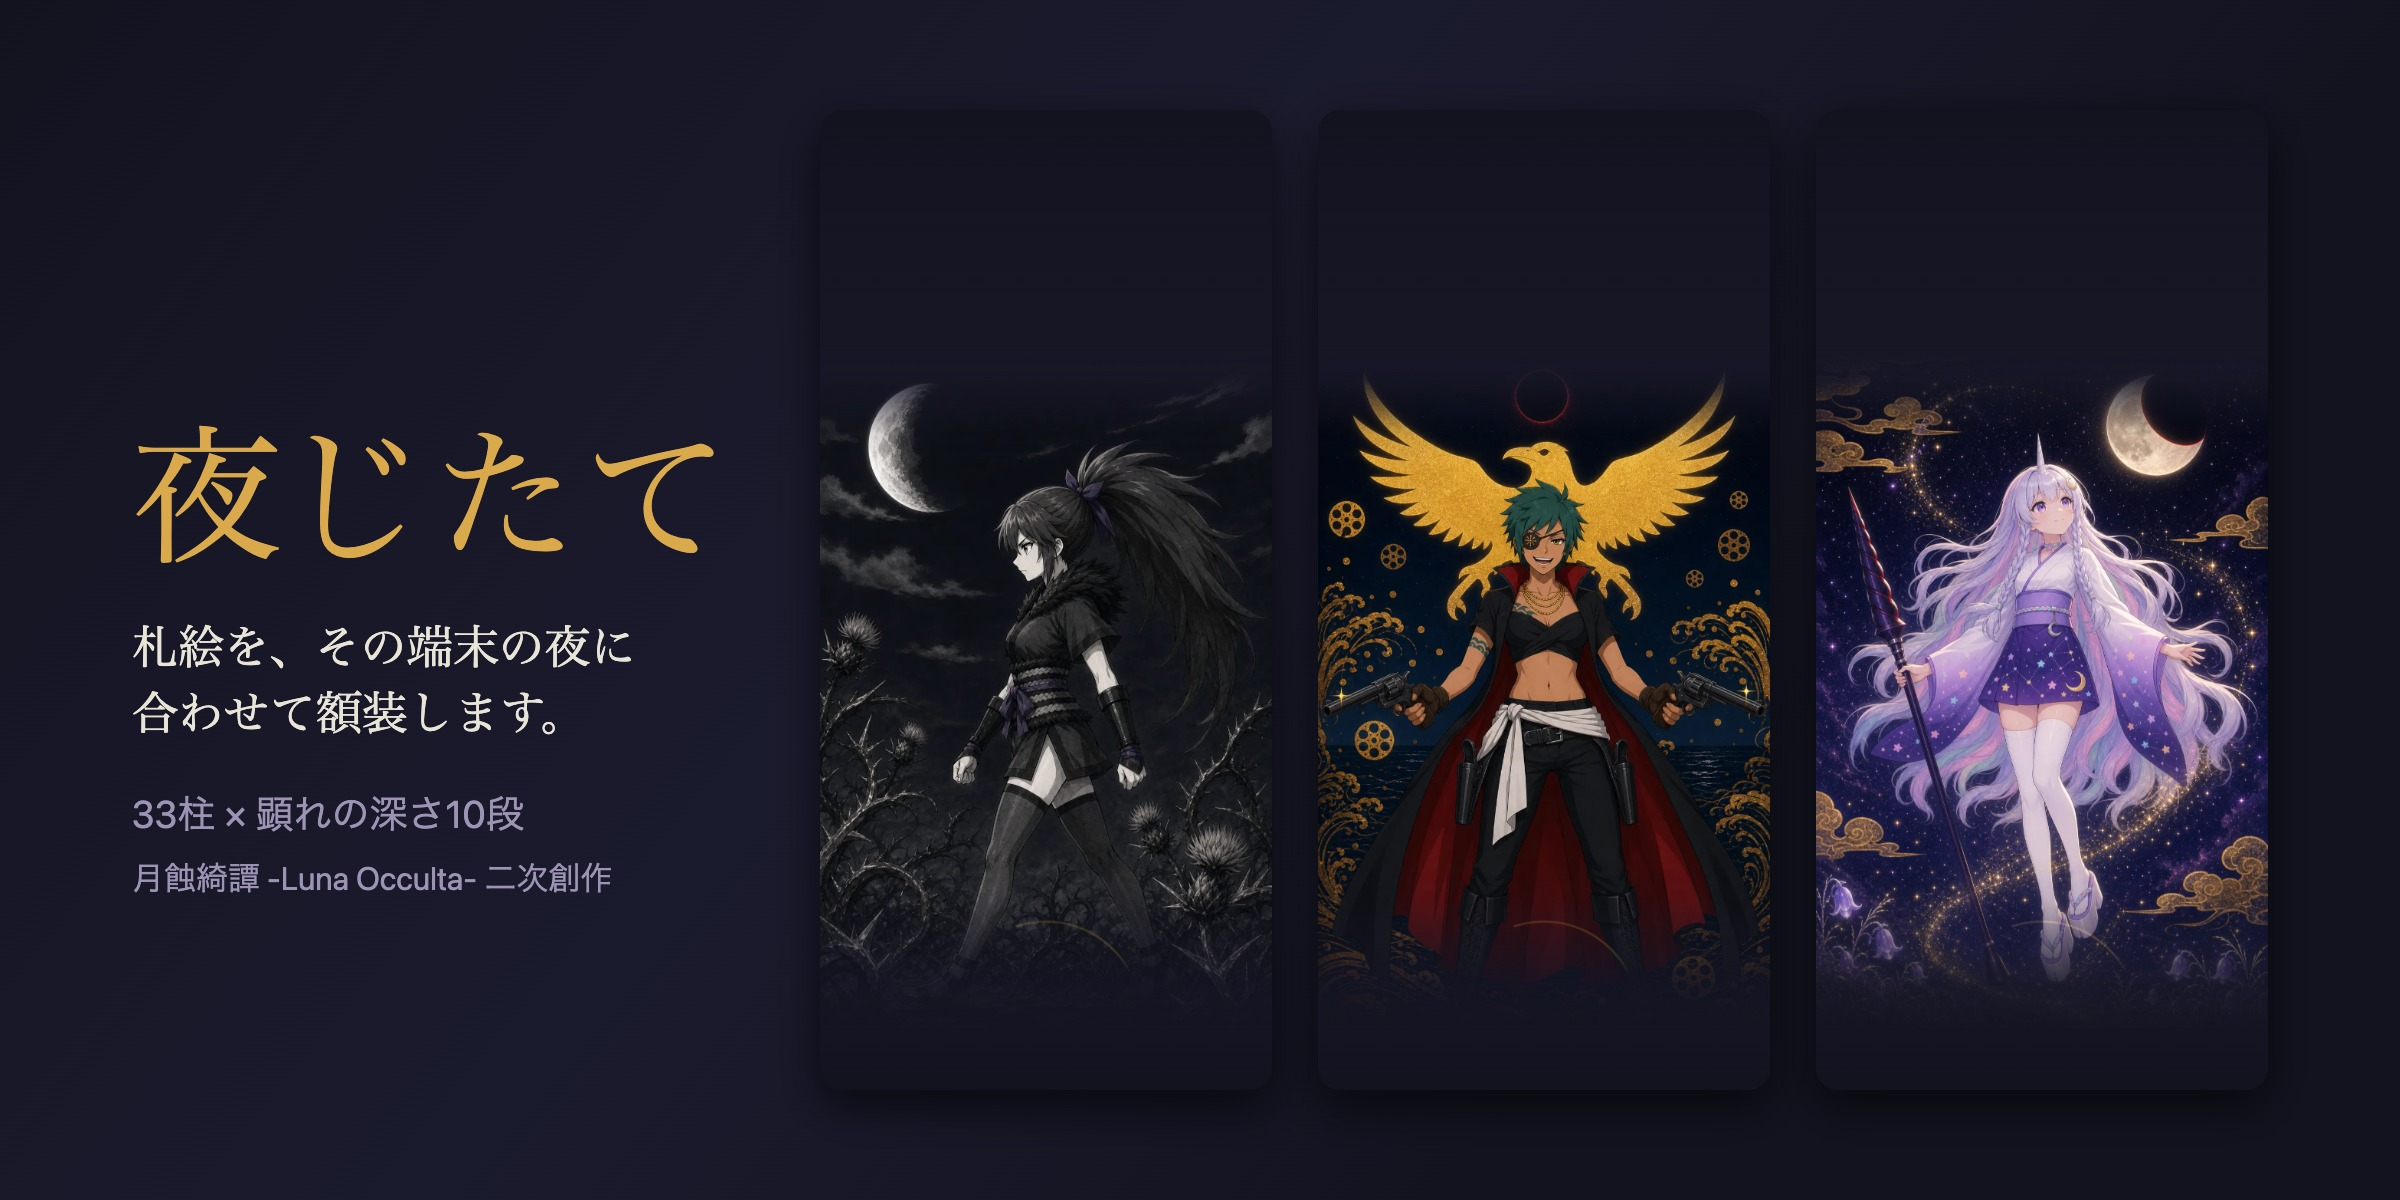
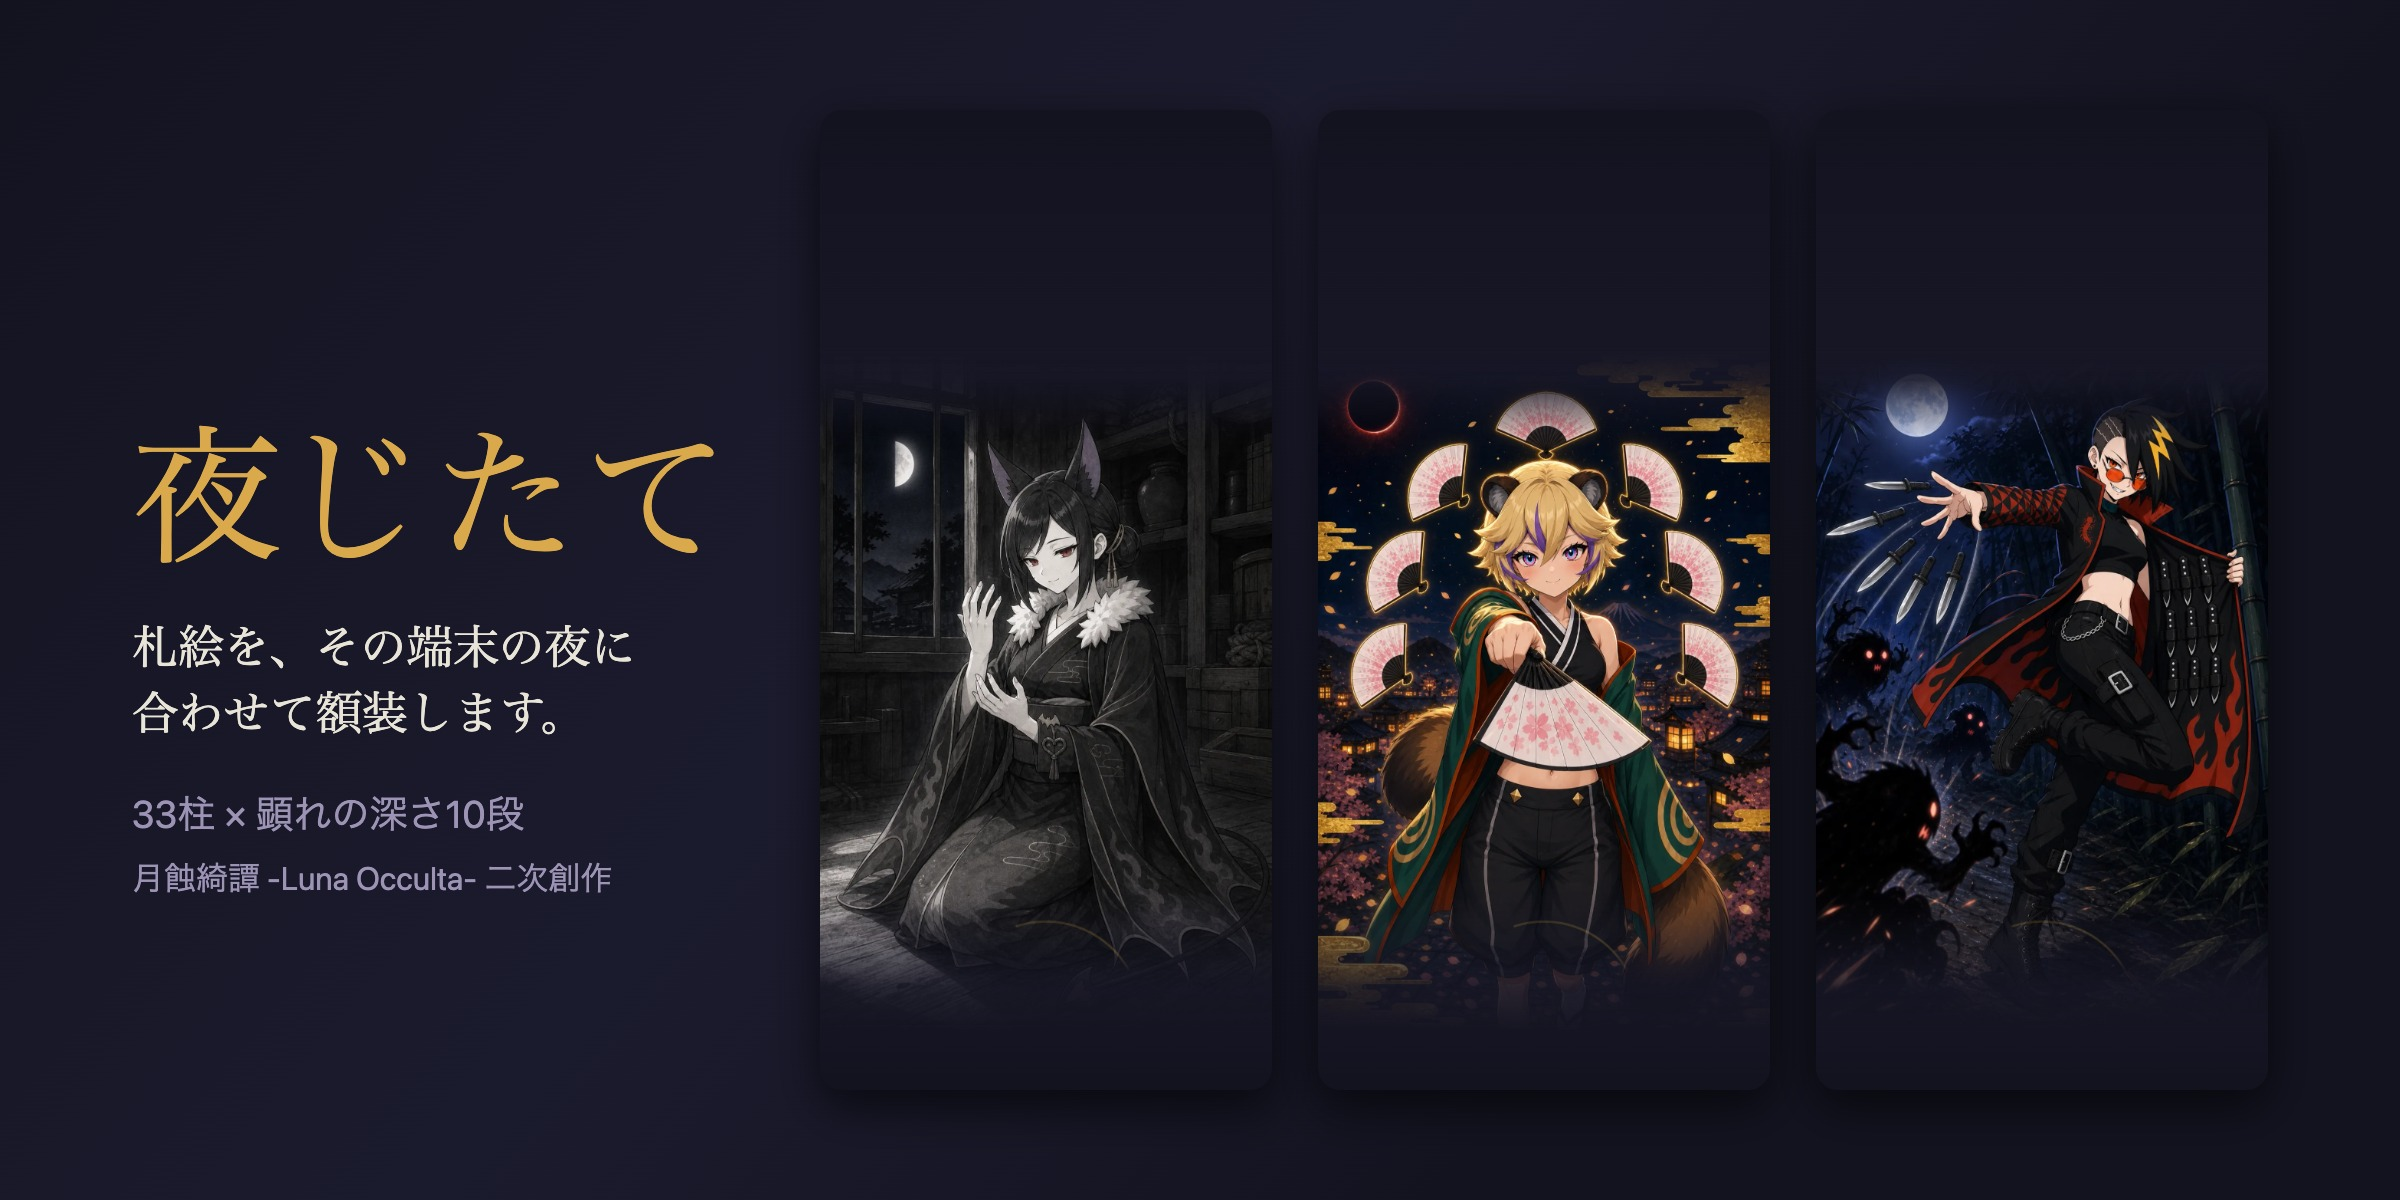
OGPの3枚を新しい柱へ（トバリ03・マミ10・ゴコウ06）
Claude-Session: https://claude.ai/code/session_01Rqj6CqfiYaMzoh7Jo4UQkf

Changed region(s): [[0.3438, 0.3083, 0.9688, 0.8325]]

diff --git a/scripts/build-ogp.js b/scripts/build-ogp.js
@@ -24,10 +24,12 @@ const W = 2400, H = 1200;
 const PHONE = { w: 1179, h: 2556 };
 
 /* 並べる3枚。深さの幅が出る組み合わせを選ぶ */
+/* 2026-10-09: 新しく来た4柱から3柱へ入れ替えた（それまでは 紫苑03／孫市10／エマ09）。
+   端末3つの幅は題字の右にちょうど収まる寸法で、4つは入らない。サスラが外れたのは幅の都合。 */
 const PICKS = [
-  { id: 'shion',    depth: 3  },   // モノクロの完成画
-  { id: 'magoichi', depth: 10 },   // 極彩色の決め絵
-  { id: 'emma',     depth: 9  }    // 淡い
+  { id: 'tobari', depth: 3  },   // モノクロの完成画
+  { id: 'mami',   depth: 10 },   // 極彩色の決め絵
+  { id: 'gokou',  depth: 6  }    // 青い夜・動きのある絵
 ];
 
 async function main() {

diff --git a/docs/DEVELOPMENT.md b/docs/DEVELOPMENT.md
@@ -1012,3 +1012,9 @@ SPEC §9。検査は「案内に無い」「`#daily` で出る・動く」の両
 - 撮影の台本から `FUDA` は見えない（本体は即時関数の中）。あたためる札絵のURLは台帳から引いた
 - 大きな dataURL を載せた頁の `setContent` は `networkidle0` で時間切れになる。`load` で待つ
 - `xfade` は入力の時間軸（timebase）が揃っていないと落ちる。静止画側と動画側の両方に `fps=30,settb=1/30`
+
+### OGP の3枚を新しい柱へ（2026-10-09・オーナー依頼）
+
+`ogp.jpg` の3枚を 紫苑03／孫市10／エマ09 から **トバリ03／マミ10／ゴコウ06** へ入れ替えた（深さの幅＝モノクロ・極彩色・青い夜は保った）。
+端末は3つまで（4つは題字に被る）なのでサスラは入っていない。**X などのカードは古い絵を控えていることがある**——
+リンクをリプ欄に置く型なら本文の添付が顔になるので、実害は小さい。
